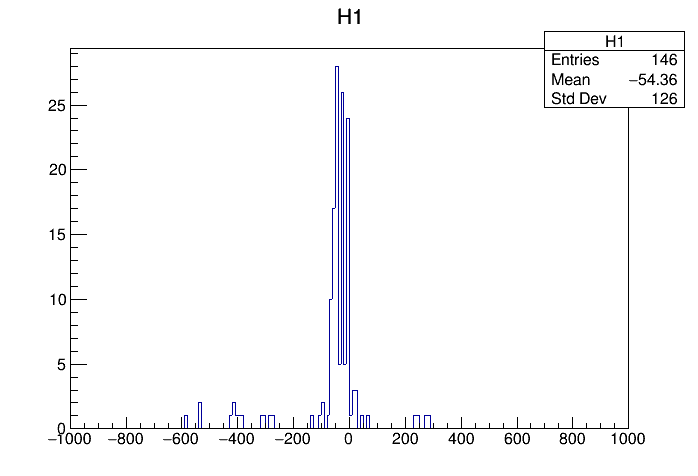
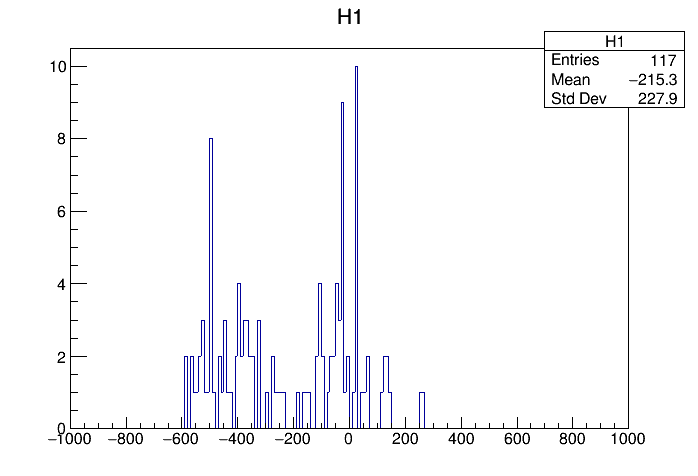
basic tracking axis range

diff --git a/mu3e/pixhits.c b/mu3e/pixhits.c
@@ -85,7 +85,7 @@ void pixhits()
     mu3e_tree->SetBranchAddress("hit_pixelid", &pix_hit_ids);
 
     //for (int i = 0; i < mu3e_tree->GetEntries(); ++i)
-    for (int i = 0; i < 1; ++i)
+    for (int i = 1; i < 2; ++i)
     {
         mu3e_tree->GetEntry(i);
         for (int j = 0; j < pix_hit_ids->size(); ++j)
@@ -136,7 +136,7 @@ void pixhits()
     auto canvas3 = new TCanvas();
     outer_pix_hits->SetMinimum(-3.15);
     outer_pix_hits->SetMaximum(+3.15);
-    outer_pix_hits->GetXaxis()->SetLimits(-650, -200);y
+    outer_pix_hits->GetXaxis()->SetLimits(-650, -200);
     outer_pix_hits->Draw("AP");
     inner_pix_hits->Draw("P");
     tile_hits->Draw("P");
